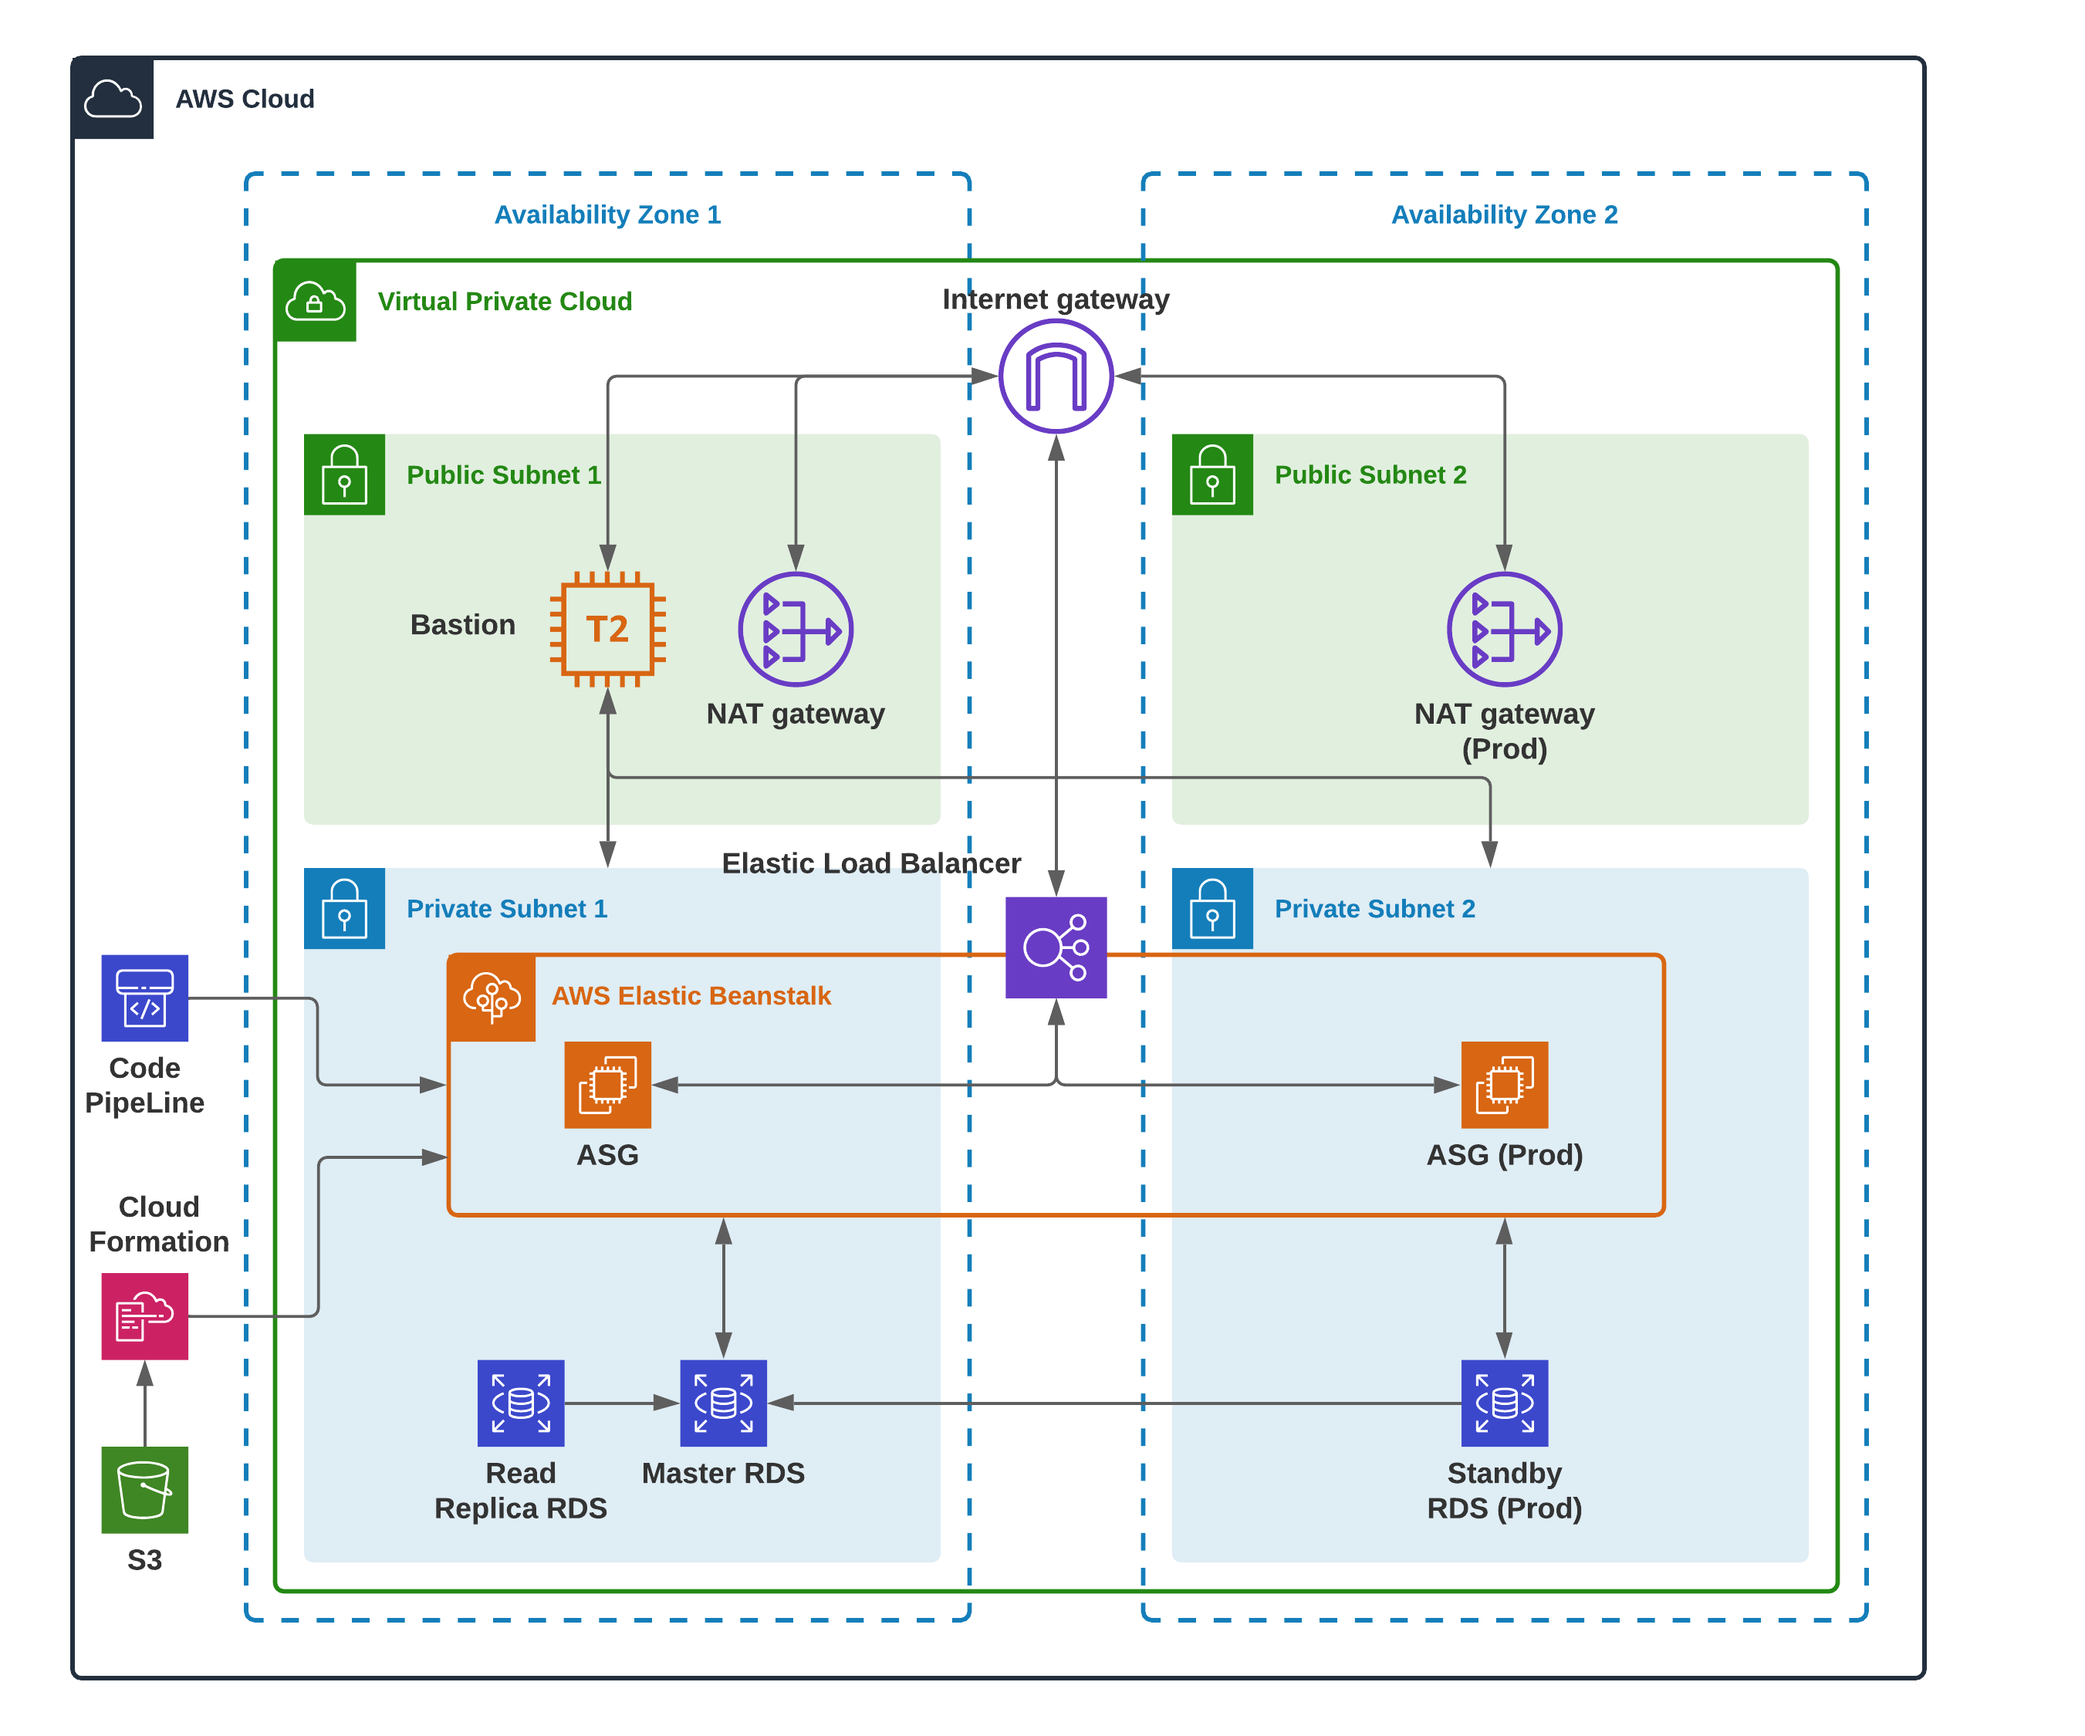
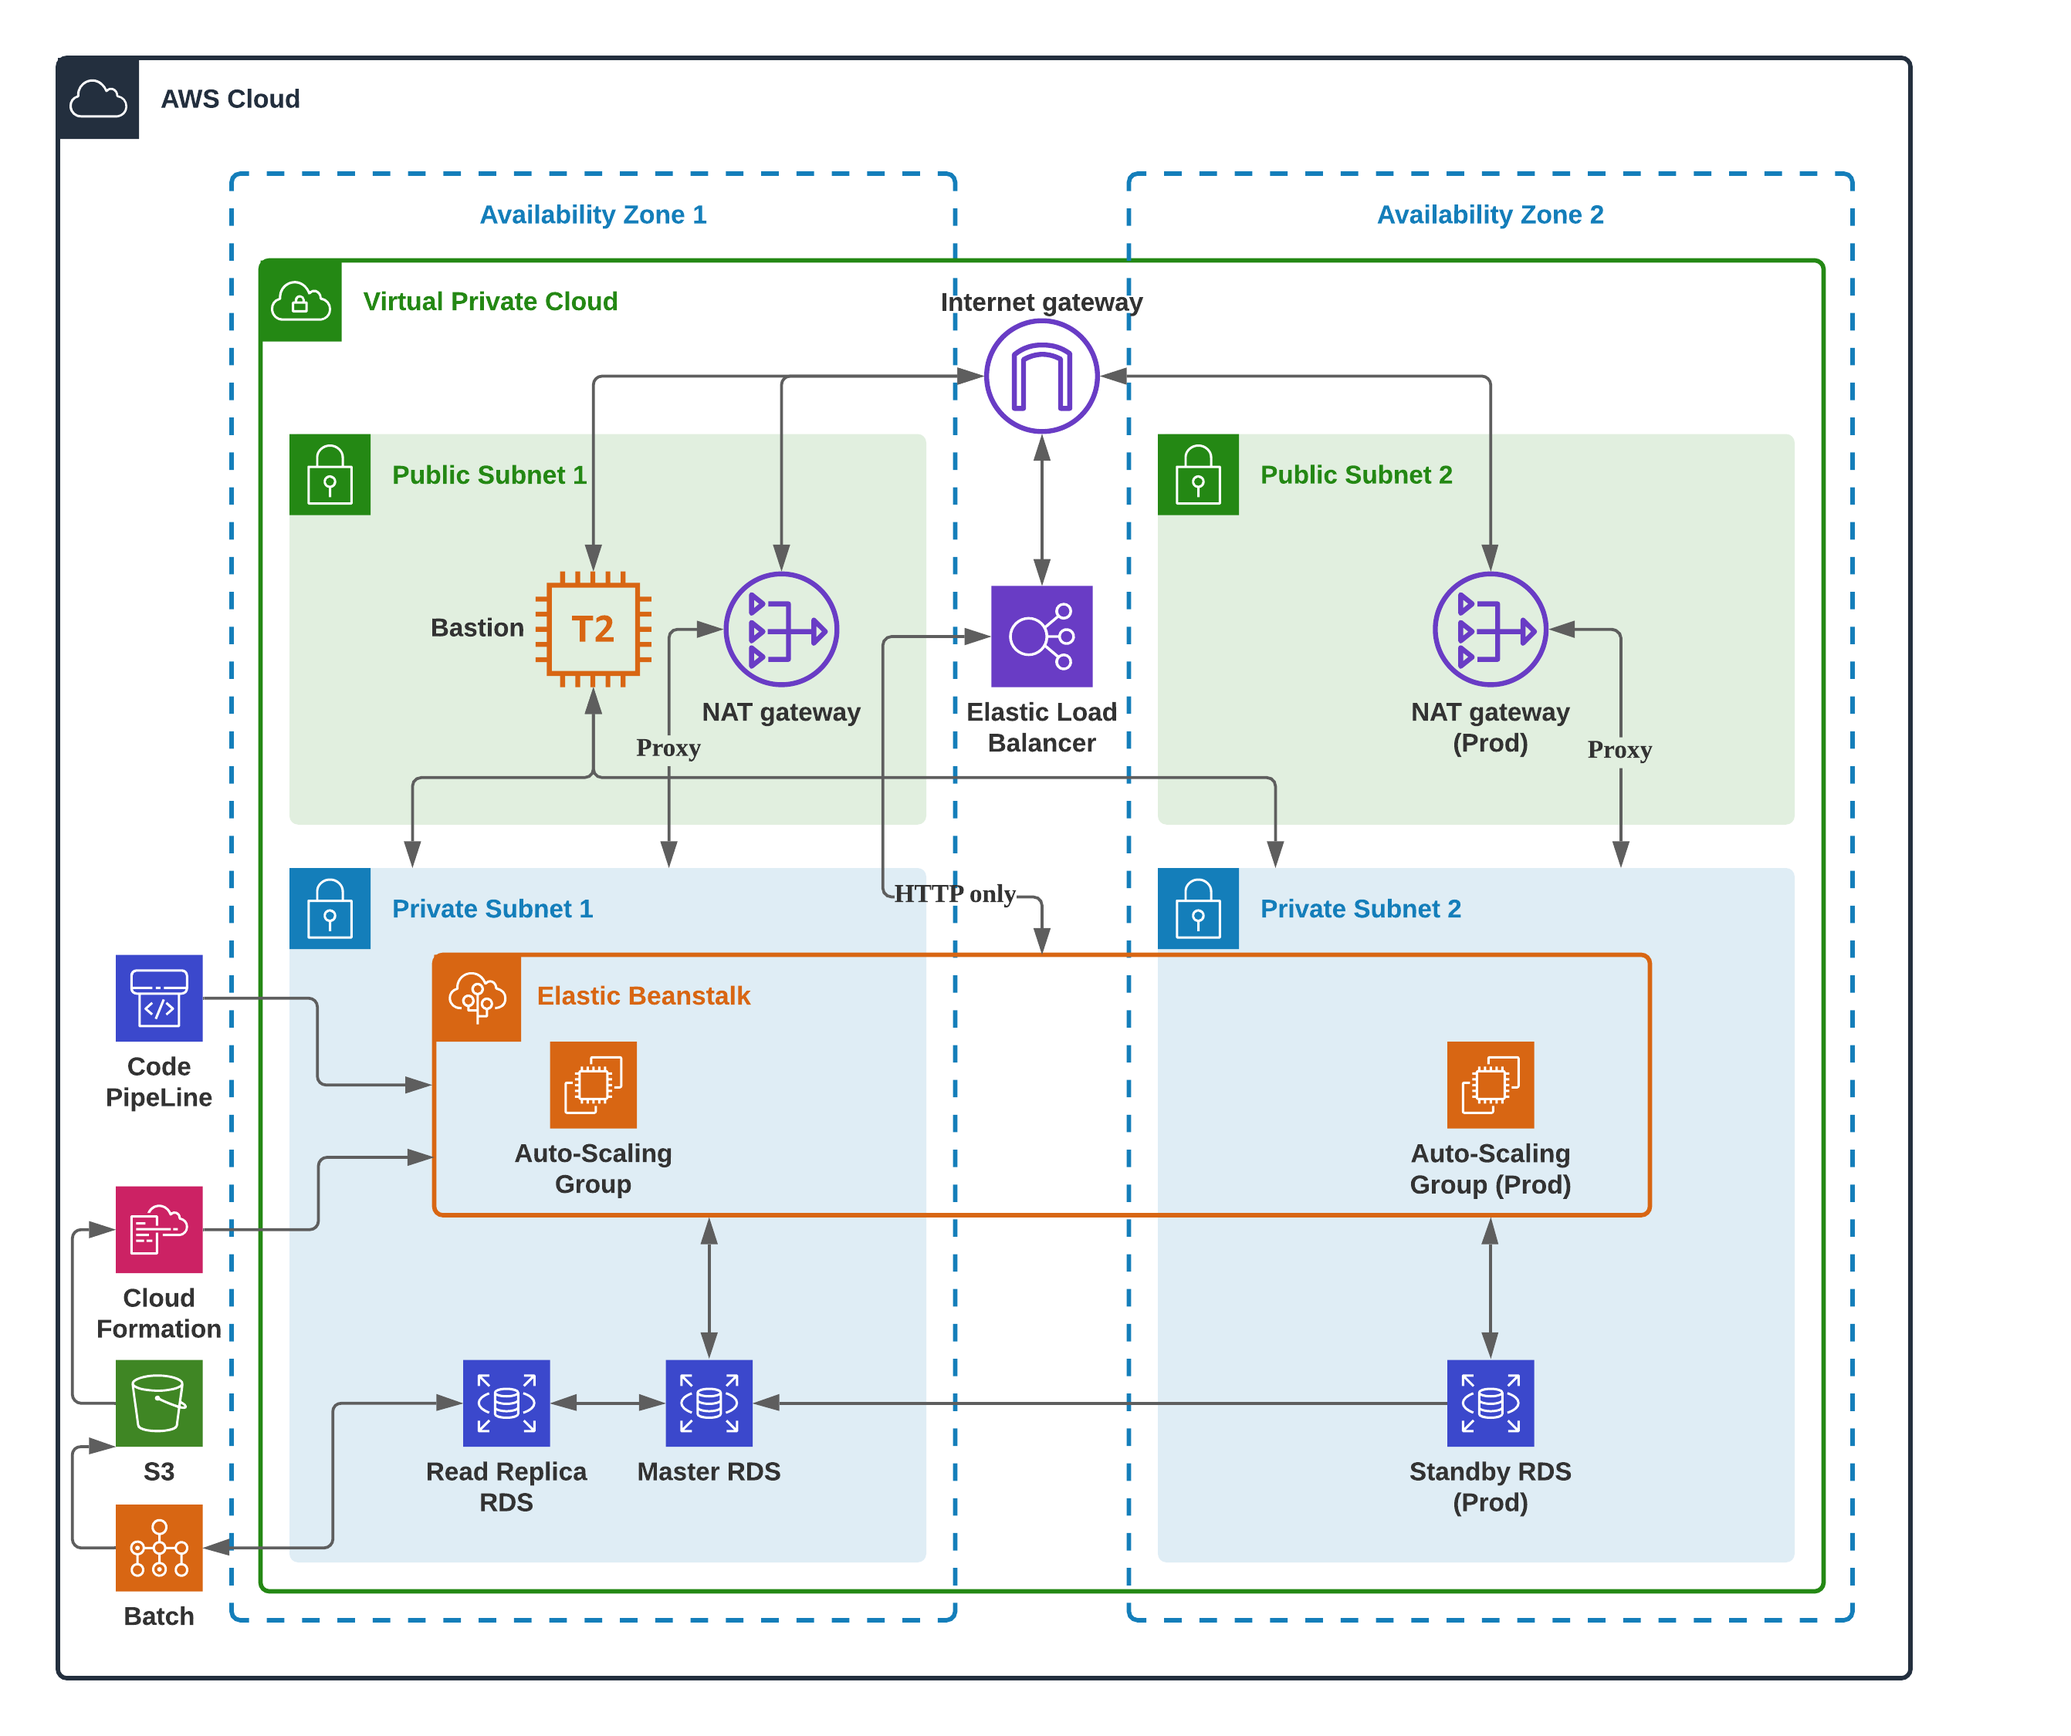
docs: update README.md architecture diagram

diff --git a/README.md b/README.md
@@ -57,15 +57,18 @@ This architecture was set up with the following [architecture requirements](http
 - Elastic Beanstalk Application
 - Elastic Beanstalk Environment
 - Auto-Scaling Group(s): Automatic scaling based on CPU utilization (2 ASGs in both AZ for Production)
-- Elastic Load Balancer: Can be configured to be Network Load Balancer (Layer-4) or Application Load Balancer (Layer-7)
+- Elastic Load Balancer: Only allows HTTP traffic; can be configured to be Network Load Balancer (Layer-4) or Application Load Balancer (Layer-7)
 
 </details>
 
 <details>
 	<summary>Other services</summary>
 
-- S3 Bucket: Used to store the initial app to be deployed to Elastic Beanstalk when the CloudFormation stack is built
+- S3 Bucket: 
+    - Used to store the initial app to be deployed to Elastic Beanstalk when the CloudFormation stack is built
+    - Used to store reports generated by the Batch Job
 - CodePipeline Pipeline: Used to continuously deploy the updated app from a GitHub repository to Elastic Beanstalk
+- Batch Job: Used for daily generation of reports which incur heavy read operations; reads from the Read Replica to mitigate impact on Master Database
 
 </details>
 
